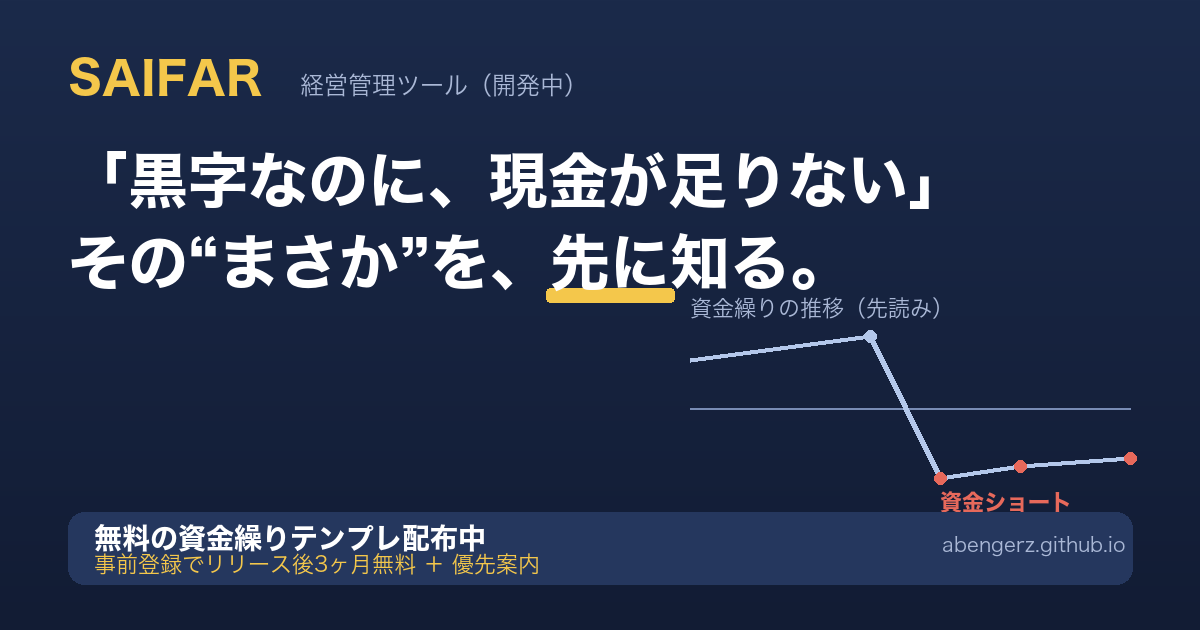
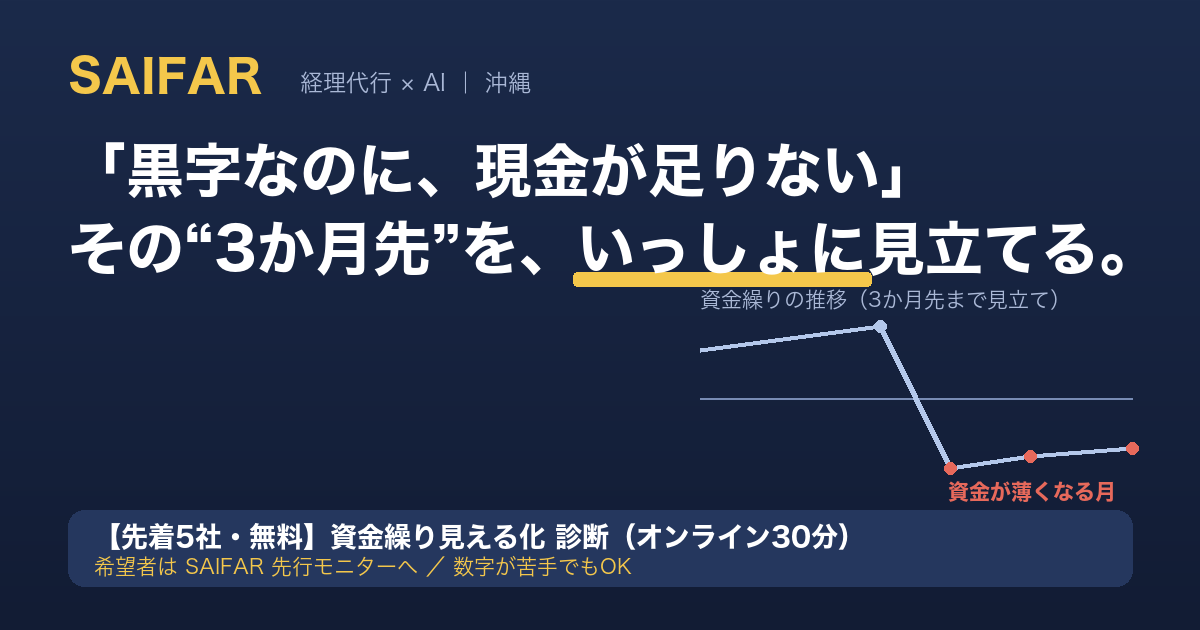
LP・OG画像を「無料資金繰り診断＋SAIFAR先行モニター」オファーに刷新(事前登録→無料診断・税理士法/プライバシー注記強化)

diff --git a/index.html b/index.html
@@ -219,25 +219,25 @@
         <span class="logo">SAIFAR</span>
         <span class="by">by 株式会社アベンジャーズ</span>
       </div>
-      <span class="status">開発中・事前登録受付</span>
+      <span class="status">先着5社・無料診断 受付中</span>
     </div>
 
     <!-- HERO -->
     <header class="hero">
       <div>
-        <div class="eyebrow">中小企業の経営者・経理のための、お金の見張り番</div>
-        <h1>黒字なのに、現金が足りない。<br><span class="mk">その"まさか"を、先に</span>知る。</h1>
-        <p class="lead">帳簿は黒字。なのに、月末になると口座が減っていく——。<br>
-          <b>数字が苦手でも、資金がショートしそうな月が"先に"わかる</b>。それが、いま開発している経営管理ツール〈SAIFAR〉です。</p>
+        <div class="eyebrow">中小企業の社長・経理の方へ｜先着5社・無料の資金繰り診断</div>
+        <h1>黒字なのに、現金が足りない。<br><span class="mk">その"3か月先"を、いっしょに</span>見立てる。</h1>
+        <p class="lead">直近の試算表か通帳があれば、あなたの会社の資金が「薄くなりそうな月」を3か月先まで見立てて、いっしょに見える化します。<br>
+          <b>数字が苦手でも大丈夫。難しい会計用語は使いません。</b></p>
 
         <div class="ctacard">
-          <div class="give"><span class="tag">無料</span>資金繰りが一目でわかる Excelテンプレ</div>
-          <div class="sub">数字を入れるだけ。危ない月が赤く光ります。登録不要で、今すぐダウンロードできます。</div>
-          <a class="btn" href="SAIFAR_資金繰りテンプレ.xlsx" download="SAIFAR_資金繰りテンプレ.xlsx">
-            無料テンプレをダウンロード
-            <span class="small">Excel／登録不要・費用は一切かかりません</span>
+          <div class="give"><span class="tag">先着5社・無料</span>資金繰り見える化 診断（オンライン30分）</div>
+          <div class="sub">直近の試算表か通帳から、3か月先に「資金が薄くなる月」をいっしょに先読み。希望者は開発中のSAIFARも先に使えます。</div>
+          <a class="btn" href="https://forms.gle/hFgEYMiKVay7iz3y9" target="_blank" rel="noopener">
+            無料診断に申し込む
+            <span class="small">連絡先とご希望だけ・費用は一切かかりません</span>
           </a>
-          <a class="btn2" href="https://forms.gle/hFgEYMiKVay7iz3y9" target="_blank" rel="noopener">＋ SAIFAR事前登録：リリース後3ヶ月無料＋優先案内 →</a>
+          <a class="btn2" href="SAIFAR_資金繰りテンプレ.xlsx" download="SAIFAR_資金繰りテンプレ.xlsx">まずは無料の資金繰りテンプレだけ受け取る →</a>
         </div>
       </div>
 
@@ -302,16 +302,15 @@
     <div class="wrap">
       <div class="offer">
         <div>
-          <div class="sec-label">まず、無料でどうぞ</div>
-          <h2>「資金繰りが一目でわかる<br>無料Excelテンプレ」を先行配布</h2>
+          <div class="sec-label">先着5社・無料</div>
+          <h2>あなたの会社の"資金繰り"を、<br>いっしょに見立てます</h2>
           <div class="ol">
-            <div class="oli"><span class="ck">✓</span><span>毎月の入金・出金を入れるだけ。月末残高とグラフが自動で出ます。</span></div>
-            <div class="oli"><span class="ck">✓</span><span>資金がショートしそうな月が<b style="color:var(--amber-soft)">赤く警告</b>。危険を"先に"つかめます。</span></div>
-            <div class="oli"><span class="ck">✓</span><span>簿記の知識は不要。数字が苦手な社長・経理の方向けに作りました。</span></div>
-            <div class="oli"><span class="ck">★</span><span><b style="color:var(--amber-soft)">事前登録特典</b>：SAIFARリリース後<b style="color:var(--amber-soft)">3ヶ月間無料</b>＋ローンチ時の優先案内。</span></div>
+            <div class="oli"><span class="ck">✓</span><span>3か月先までの資金の動きを見える化し、<b style="color:var(--amber-soft)">「現金が薄くなりそうな月」</b>を早めにつかめる</span></div>
+            <div class="oli"><span class="ck">✓</span><span>借入・支払いのタイミング・コストなど、打てそうな手をあなたの状況に合わせていっしょに整理</span></div>
+            <div class="oli"><span class="ck">★</span><span>希望される方は、開発中の経営管理ツール<b style="color:var(--amber-soft)">「SAIFAR」を先行して試せます</b>（お礼はご感想だけ）</span></div>
           </div>
-          <a class="btn" href="SAIFAR_資金繰りテンプレ.xlsx" download="SAIFAR_資金繰りテンプレ.xlsx">無料テンプレをダウンロード</a>
-          <a class="btn2" href="https://forms.gle/hFgEYMiKVay7iz3y9" target="_blank" rel="noopener" style="border-color:rgba(255,255,255,.4);color:#fff">事前登録して「3ヶ月無料」をキープ →</a>
+          <a class="btn" href="https://forms.gle/hFgEYMiKVay7iz3y9" target="_blank" rel="noopener">無料診断に申し込む（先着5社）</a>
+          <a class="btn2" href="SAIFAR_資金繰りテンプレ.xlsx" download="SAIFAR_資金繰りテンプレ.xlsx" style="border-color:rgba(255,255,255,.4);color:#fff">まずは無料テンプレだけ受け取る →</a>
         </div>
         <div class="mock" aria-hidden="true">
           <div class="mh">資金繰り表（月末の現金残高）</div>
@@ -392,15 +391,15 @@
   <section class="final">
     <div class="wrap">
       <h2>「まさか」の前に、動けるように。</h2>
-      <p class="sd">まずは無料の資金繰りテンプレから。さらに事前登録で、SAIFARリリース後3ヶ月無料＋ローンチ優先案内。</p>
-      <a class="btn" href="https://forms.gle/hFgEYMiKVay7iz3y9" target="_blank" rel="noopener">事前登録して「3ヶ月無料」をキープ</a>
-      <div class="reassure">または <a href="SAIFAR_資金繰りテンプレ.xlsx" download="SAIFAR_資金繰りテンプレ.xlsx" style="color:var(--amber);font-weight:800;text-decoration:underline">無料テンプレだけダウンロード</a>（登録不要・費用は一切かかりません）</div>
+      <p class="sd">先着5社・無料の資金繰り診断（オンライン30分）。あなたの会社の"危ない月"を、いっしょに先読みしましょう。</p>
+      <a class="btn" href="https://forms.gle/hFgEYMiKVay7iz3y9" target="_blank" rel="noopener">無料診断に申し込む（先着5社）</a>
+      <div class="reassure">連絡先とご希望だけ／または <a href="SAIFAR_資金繰りテンプレ.xlsx" download="SAIFAR_資金繰りテンプレ.xlsx" style="color:var(--amber);font-weight:800;text-decoration:underline">無料テンプレだけダウンロード</a>（登録不要）</div>
     </div>
   </section>
 
   <footer>
     <div class="wrap">
-      <p class="discl">本ツールおよびテンプレートは、経営管理・資金繰りの見える化を目的とした一般的な情報提供のためのものであり、税務相談・税務判断を行うものではありません。個別の税務・会計・融資の判断は、顧問税理士等の専門家にご確認ください。作成者は税理士ではありません。記載の機能・時期は開発中の予定であり、変更となる場合があります。</p>
+      <p class="discl">本サービス（無料診断）およびテンプレートは、資金繰り・財務の可視化と経営管理を目的としたもので、税務相談・税務判断を行うものではありません（作成者は税理士ではありません。税務のご判断は顧問税理士等の専門家へ）。診断の「見立て」は将来を保証するものではなく、今わかる数字にもとづく試算です。お申込時にいただくのは連絡先とご希望のみで、試算表・通帳等の財務データはフォームでは取得しません（実データは診断当日の画面共有等でのみ拝見します）。記載の機能・時期は開発中の予定であり、変更となる場合があります。</p>
       <div class="meta"><span class="lg">SAIFAR</span><span>© 株式会社アベンジャーズ</span><span>沖縄</span><span>avengerz-japan.com</span></div>
     </div>
   </footer>
